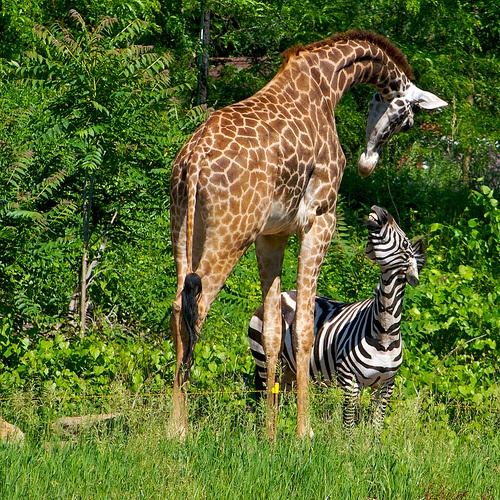
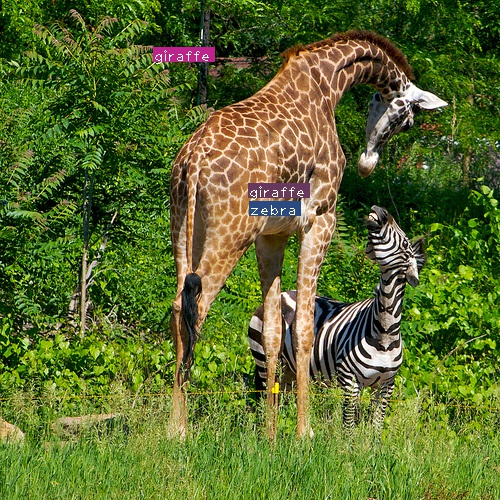
mask off. for some reason it doesn't show up quite yet, but it looks right

Changed region(s): [[0.48, 0.36, 0.63, 0.45], [0.3, 0.09, 0.45, 0.15]]

diff --git a/pytorch-yolo-v3/detect.py b/pytorch-yolo-v3/detect.py
@@ -51,7 +51,7 @@ def arg_parse():
     
     
     parser = argparse.ArgumentParser(description='YOLO v3 Detection Module')
-   
+    
     parser.add_argument("--images", dest = 'images', help = 
                         "Image / Directory containing images to perform detection upon",
                         default = "imgs", type = str)
@@ -277,15 +277,35 @@ if __name__ ==  '__main__':
         img = results[int(x[0])]
         cls = int(x[-1])
         label = "{0}".format(classes[cls])
-        color = (0,0,0) #random.choice(colors)
+        # color = (0,0,0) #random.choice(colors)
+        color = random.choice(colors)
+        # if label == "person":
+        #     cv2.rectangle(img, c1, c2,color, -1)
+        
+        # mask = img.copy()
         if label == "person":
-          cv2.rectangle(img, c1, c2,color, -1)
-        #t_size = cv2.getTextSize(label, cv2.FONT_HERSHEY_PLAIN, 1 , 1)[0]
-        #c2 = c1[0] + t_size[0] + 3, c1[1] + t_size[1] + 4
-        #cv2.rectangle(img, c1, c2, color, -1)
-        #cv2.putText(img, label, (c1[0], c1[1] + t_size[1] + 4), cv2.FONT_HERSHEY_PLAIN, 1, [225,255,255], 1)
+            # Create a new masked img
+            height,width,depth = img.shape
+            mask_color = (255,255,255)
+            mask = np.zeros((height, width), np.uint8)
+            
+            cv2.rectangle(mask,c1, c2, mask_color, -1)
+            masked_data = cv2.bitwise_and(img, img, mask=mask)
+#             cv2.imshow("masked", masked_data)
+            
+#             cv2.rectangle(mask, c1, c2, mask_color, -1) ## white mask
+            cv2.imwrite( "/home/JMak/finalproject/cs231n-finalproject-gan/pytorch-yolo-v3/det/test.jpg", mask);
+
+        
+        t_size = cv2.getTextSize(label, cv2.FONT_HERSHEY_PLAIN, 1 , 1)[0]
+        c2 = c1[0] + t_size[0] + 3, c1[1] + t_size[1] + 4
+        cv2.rectangle(img, c1, c2, color, -1)
+        cv2.putText(img, label, (c1[0], c1[1] + t_size[1] + 4), cv2.FONT_HERSHEY_PLAIN, 1, [225,255,255], 1)
+        
+        
+        
         return img
-    
+        # return mask
     
             
     list(map(lambda x: write(x, im_batches, orig_ims), output))
